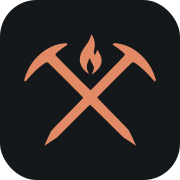
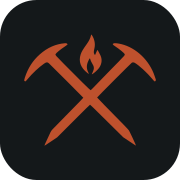
The mark takes the accent, not the small-text lift
logo.svg was accent-on-dark (#e28a65). That token is the SMALL TEXT lift
for dark sections -- eyebrows, arrow links, focus rings -- and the palette
says so: alpenglow is named for 'fills, buttons, icons, large text,
decoration'. A mark is decoration. Using the lift put it a visible step
lighter than every other accent on the same screen, most obviously on the
link preview, where it sat next to the tagline drawn in the real accent.

Now #be512d everywhere, which also collapses the two files into one:
3.75:1 on the ink masthead and footer, 4.42:1 on paper, so a single file
covers both grounds. logo-on-light.svg deleted.

make_social.py's ALPENGLOW was (192, 82, 45), two points off the token.
Invisible on its own and a visible seam beside a mark drawn from the real
value. Now (190, 81, 45).

Changed region(s): [[0.1389, 0.2222, 0.8611, 0.8056], [0.4444, 0.1944, 0.5833, 0.4167]]

diff --git a/includes/config.php b/includes/config.php
@@ -34,10 +34,11 @@ return array(
                        . 'Anyone can join.',
         'url'         => 'https://alpine.caltech.edu',
 
-        // The club mark: two crossed ice axes under a flame. It is drawn in
-        // the accent-on-dark colour because the only two places the site shows
-        // it (the masthead and the footer) are both ink. assets/images/
-        // logo-on-light.svg is the same mark for a pale background.
+        // The club mark: two crossed ice axes under a flame, drawn in the
+        // alpenglow accent. One file covers every background, because that
+        // token is legible on both (3.75:1 on ink, 4.42:1 on paper) and using
+        // a second, lighter orange on the dark pages put the mark a visible
+        // step off the accent beside it.
         //
         // Leave this empty and the header falls back to the wordmark alone,
         // which still looks deliberate.

diff --git a/tools/make_social.py b/tools/make_social.py
@@ -33,8 +33,10 @@ W, H = 1200, 630
 INK = (20, 24, 26)
 PAPER = (236, 231, 221)
 MUTED = (150, 156, 150)
-ALPENGLOW = (192, 82, 45)
-ACCENT_ON_DARK = (226, 138, 101)   # the mark's colour, 6.86:1 on INK
+# Exactly the alpenglow token from assets/css/style.css, hsl(15 62% 46%). It
+# was (192, 82, 45) here, two points off, which is invisible alone and is a
+# visible seam next to the mark that is drawn from the real value.
+ALPENGLOW = (190, 81, 45)
 
 
 def mark_layer(size):

diff --git a/README.md b/README.md
@@ -338,19 +338,18 @@ the worst kind of broken link.
 ### The logo
 
 The club mark is two crossed ice axes under a flame, and it lives in exactly one
-place: **`assets/images/logo.svg`**, a single path in the accent-on-dark colour.
+place: **`assets/images/logo.svg`**, a single path in the alpenglow accent.
 Everything else is generated from it, so nothing can drift out of step.
 
 | File | What it is |
 |---|---|
-| `logo.svg` | the mark, on-dark colour. Masthead and footer. The source of record |
-| `logo-on-light.svg` | the same path in the darker accent, for a pale background |
+| `logo.svg` | the mark. Masthead and footer. The source of record |
 | `favicon.svg` | the mark inset on a rounded ink tile, for the browser tab |
 | `apple-touch-icon.png`, `favicon-32.png`, `logo-512.png` | rasters, written by `tools/make_icons.py` |
 | `social-default.png` | the link preview, written by `tools/make_social.py` |
 
-**To change the mark:** replace the path in `logo.svg` and `logo-on-light.svg`,
-then run both generators:
+**To change the mark:** replace the path in `logo.svg` and `favicon.svg`, then
+run both generators:
 
 ```bash
 python tools/make_icons.py
@@ -359,11 +358,16 @@ python tools/make_social.py
 
 Do not edit a PNG by hand; the next run of either script overwrites it.
 
-**Why two colour files rather than `currentColor`:** both are loaded with
-`<img>`, and an SVG used as an image has no parent to inherit from, so
-`currentColor` there resolves to black. The colours are hardcoded and are
-recorded in each file's comment. If you change the `alpenglow` or
-`accent-on-dark` token in `assets/css/style.css`, change them to match.
+**Why the colour is hardcoded rather than `currentColor`:** the mark is loaded
+with `<img>`, and an SVG used as an image has no parent to inherit from, so
+`currentColor` there resolves to black. If you change the `alpenglow` token in
+`assets/css/style.css`, change `logo.svg` and `favicon.svg` to match.
+
+**One colour, not two.** There was briefly an `accent-on-dark` variant for the
+dark pages. That token is the small-text lift for dark sections, not the accent;
+the palette names `alpenglow` for "fills, buttons, icons, large text,
+decoration", and using anything else put the mark a step lighter than every
+other accent on the same screen.
 
 Setting `site.logo` in `includes/config.php` to an empty string removes the mark
 from the masthead and leaves the wordmark, which still looks deliberate.
